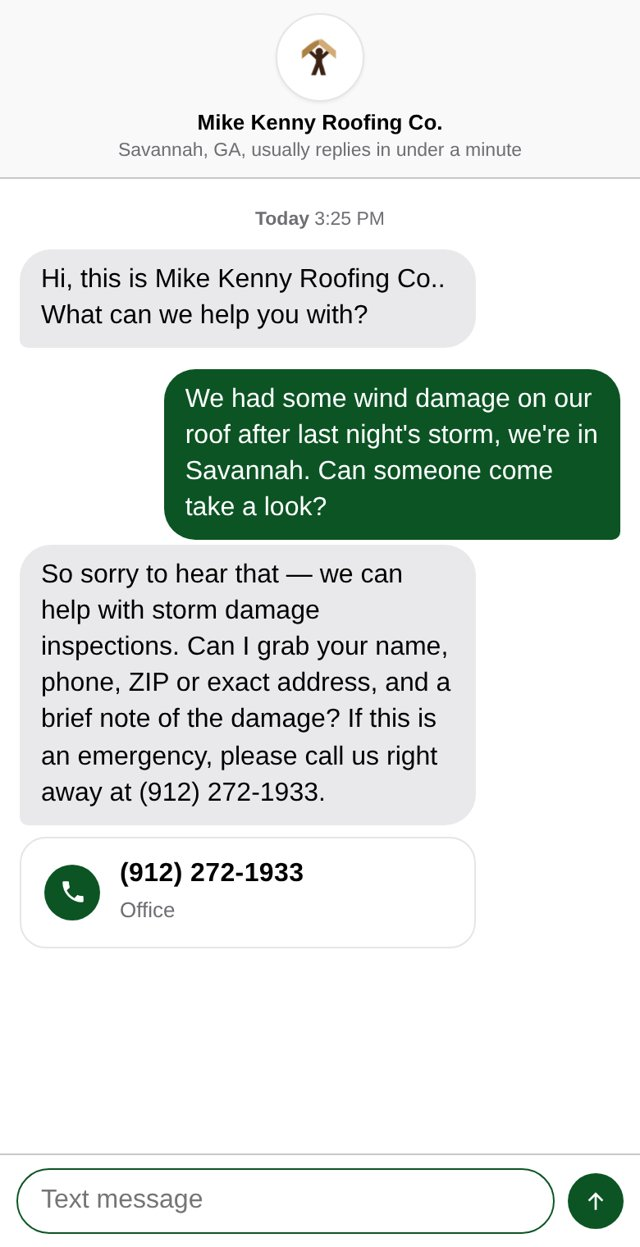
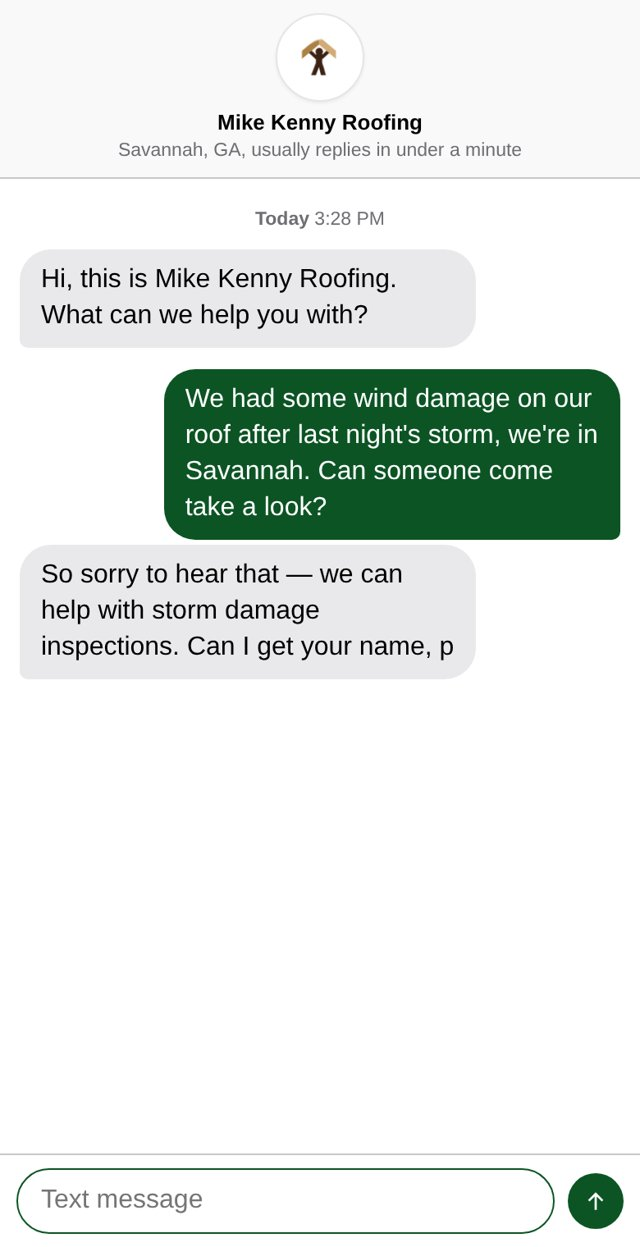
mike-kenny-roofing chat

Changed region(s): [[0.0625, 0.4876, 0.7188, 0.7618], [0.3125, 0.0914, 0.6875, 0.1219], [0.625, 0.2133, 0.6875, 0.2438]]

diff --git a/mike-kenny-roofing/index.html b/mike-kenny-roofing/index.html
@@ -1,13 +1,13 @@
 <!doctype html><html lang="en"><head><meta charset="utf-8"><meta name="viewport" content="width=device-width,initial-scale=1">
-<meta name="robots" content="noindex,nofollow"><title>A website assistant for Mike Kenny Roofing Co.</title><style>body{margin:0;font-family:-apple-system,Segoe UI,Roboto,sans-serif;background:#f4f5f7;color:#1b2430}
+<meta name="robots" content="noindex,nofollow"><title>A website assistant for Mike Kenny Roofing</title><style>body{margin:0;font-family:-apple-system,Segoe UI,Roboto,sans-serif;background:#f4f5f7;color:#1b2430}
 main{max-width:760px;margin:0 auto;padding:28px 18px 40px}h1{font-size:22px;line-height:1.3;margin:0 0 8px}
 p{line-height:1.55;color:#4a5566;margin:0 0 18px}.due{display:flex;gap:14px;justify-content:center;margin:0 0 22px}
 .due figure{margin:0;flex:1;max-width:340px}.due img,img.shot{width:100%;display:block;border-radius:18px;box-shadow:0 14px 40px rgba(15,25,45,.2)}
 img.shot{max-width:360px;margin:0 auto 22px}figcaption{text-align:center;font-weight:700;margin-top:8px;color:#4a5566}
 a.btn{display:block;max-width:420px;margin:0 auto;text-align:center;background:#1f66e0;color:#fff;text-decoration:none;font-weight:700;padding:15px;border-radius:14px;font-size:16px}
 small{display:block;text-align:center;color:#7a8596;margin-top:16px;font-size:12.5px}</style></head><body><main>
-<h1>A website assistant for Mike Kenny Roofing Co.</h1><p>It answers your website visitors instantly, day or night, using only what's on your website, and sends you their name, number and what they need.</p><img class="shot" src="screenshot.jpg" alt="Preview of the assistant on your website">
-<a class="btn" href="https://wpsani.store/demo/d/8999f801">Try it live</a>
+<h1>A website assistant for Mike Kenny Roofing</h1><p>It answers your website visitors instantly, day or night, using only what's on your website, and sends you their name, number and what they need.</p><img class="shot" src="screenshot.jpg" alt="Preview of the assistant on your website">
+<a class="btn" href="https://wpsani.store/demo/d/0182788e">Try it live</a>
 <small>Private demo built by Federico Sanua, independent web developer, sanuafederico@gmail.com</small>
-<img src="https://wpsani.store/demo/p/8999f801.gif" width="1" height="1" alt="" style="position:absolute;left:-9999px">
+<img src="https://wpsani.store/demo/p/0182788e.gif" width="1" height="1" alt="" style="position:absolute;left:-9999px">
 </main></body></html>
